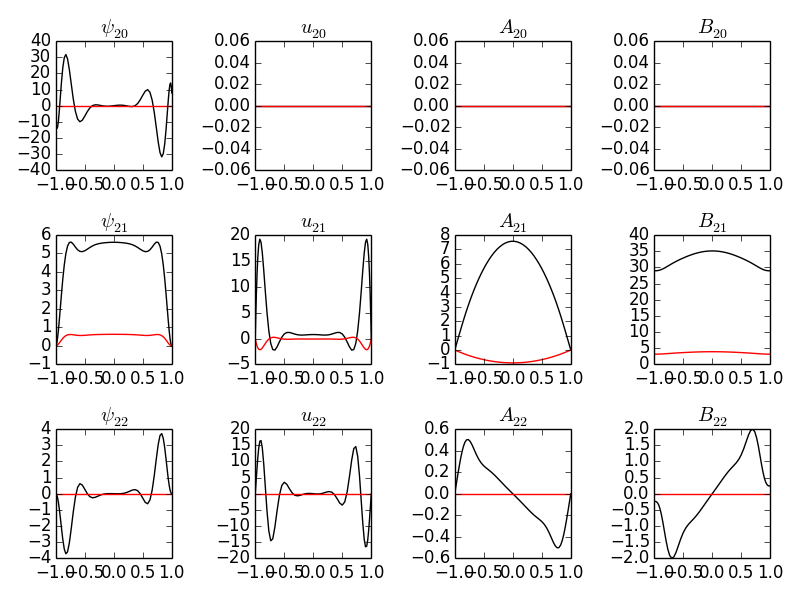
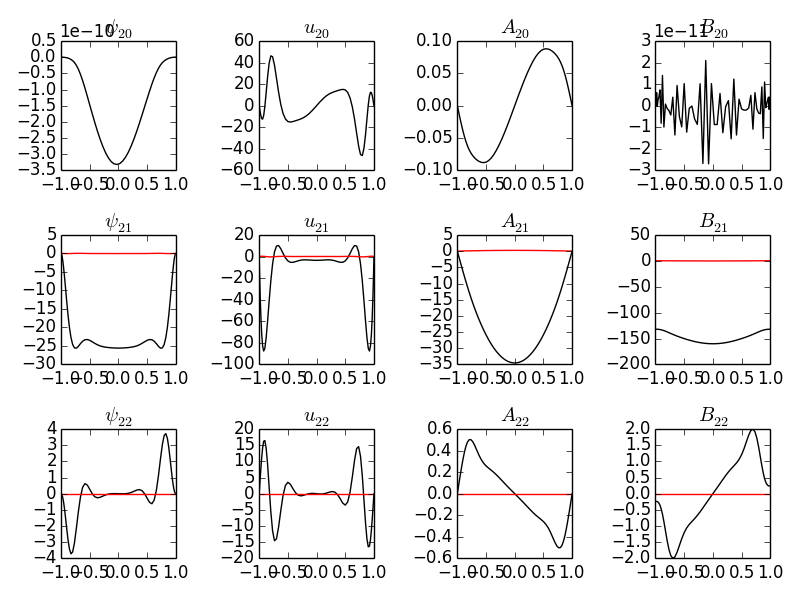
all OrderE2 now correct

diff --git a/python/allorders.py b/python/allorders.py
@@ -184,6 +184,13 @@ class OrderE():
         q = self.q
 
         # linear MRI equations
+        
+        # bvp way
+        #lv1.add_equation("-iR*dx(psixxx) + 2*iR*Q**2*psixx - iR*Q**4*psi - 2*1j*Q*u - (2/beta)*1j*Q*dx(Ax) + (2/beta)*Q**3*1j*A = 0")
+        #lv1.add_equation("-iR*dx(ux) + iR*Q**2*u + (2-q)*1j*Q*psi - (2/beta)*1j*Q*B = 0") 
+        #lv1.add_equation("-iRm*dx(Ax) + iRm*Q**2*A - 1j*Q*psi = 0") 
+        #lv1.add_equation("-iRm*dx(Bx) + iRm*Q**2*B - 1j*Q*u + q*1j*Q*A = 0")
+        
         lv1.add_equation("1j*dt(psixx) - 1j*Q**2*dt(psi) - iR*dx(psixxx) + 2*iR*Q**2*psixx - iR*Q**4*psi - 2*1j*Q*u - (2/beta)*1j*Q*dx(Ax) + (2/beta)*Q**3*1j*A = 0")
         lv1.add_equation("1j*dt(u) - iR*dx(ux) + iR*Q**2*u + (2-q)*1j*Q*psi - (2/beta)*1j*Q*B = 0") 
         lv1.add_equation("1j*dt(A) - iRm*dx(Ax) + iRm*Q**2*A - 1j*Q*psi = 0") 
@@ -218,6 +225,8 @@ class OrderE():
         lv1.expand(domain, order = gridnum)
         LEV = LinearEigenvalue(lv1, domain)
         LEV.solve(LEV.pencils[0])
+        #LEV = LinearBVP(lv1, domain)
+        #LEV.solvedense()
         
         self.LEV = LEV
 
@@ -370,6 +379,7 @@ class N2():
         #self.psi_1_star['g'] = -1*self.psi_1['g'].imag
         
         #testing ...
+        """
         self.psi_1_star_x = domain.new_field()
         self.psi_1_star_x.name = 'psi_1_star_x'
         self.psi_1_star_x['g'] = self.psi_1_x['g'].conj()
@@ -381,26 +391,29 @@ class N2():
         self.psi_1_star_xxx = domain.new_field()
         self.psi_1_star_xxx.name = 'psi_1_star_xxx'
         self.psi_1_star_xxx['g'] = self.psi_1_xxx['g'].conj()
+        """
         
-        #self.psi_1_star_x = self.psi_1_star.differentiate(0)
-        #self.psi_1_star_xx = self.psi_1_star_x.differentiate(0)
-        #self.psi_1_star_xxx = self.psi_1_star_xx.differentiate(0)
+        self.psi_1_star_x = self.psi_1_star.differentiate(0)
+        self.psi_1_star_xx = self.psi_1_star_x.differentiate(0)
+        self.psi_1_star_xxx = self.psi_1_star_xx.differentiate(0)
+        
         
         self.u_1_star = domain.new_field()
         self.u_1_star.name = 'u_1_star'
         self.u_1_star['g'] = self.u_1['g'].conj()
         #self.u_1_star['g'] = self.u_1['g'].real
         
-        #self.u_1_star_x = self.u_1_star.differentiate(0)
+        self.u_1_star_x = self.u_1_star.differentiate(0)
+        """
         self.u_1_star_x = domain.new_field()
         self.u_1_star_x.name = 'u_1_star_x'
         self.u_1_star_x['g'] = self.u_1_x['g'].conj()
-        
+        """
         self.A_1_star = domain.new_field()
         self.A_1_star.name = 'A_1_star'
         self.A_1_star['g'] = self.A_1['g'].conj()
         #self.A_1_star['g'] = self.A_1['g'].real
-        
+        """
         self.A_1_star_x = domain.new_field()
         self.A_1_star_x.name = 'A_1_star_x'
         self.A_1_star_x['g'] = self.A_1_x['g'].conj()
@@ -412,45 +425,50 @@ class N2():
         self.A_1_star_xxx = domain.new_field()
         self.A_1_star_xxx.name = 'A_1_star_xxx'
         self.A_1_star_xxx['g'] = self.A_1_xxx['g'].conj()
+        """
         
-        #self.A_1_star_x = self.A_1_star.differentiate(0)
-        #self.A_1_star_xx = self.A_1_star_x.differentiate(0)
-        #self.A_1_star_xxx = self.A_1_star_xx.differentiate(0)
+        self.A_1_star_x = self.A_1_star.differentiate(0)
+        self.A_1_star_xx = self.A_1_star_x.differentiate(0)
+        self.A_1_star_xxx = self.A_1_star_xx.differentiate(0)
         
         self.B_1_star = domain.new_field()
         self.B_1_star.name = 'B_1_star'
         self.B_1_star['g'] = self.B_1['g'].conj()
         #self.B_1_star['g'] = -1*self.B_1['g'].imag
-        #self.B_1_star_x = self.B_1_star.differentiate(0)
-        
+        self.B_1_star_x = self.B_1_star.differentiate(0)
+        """
         self.B_1_star_x = domain.new_field()
         self.B_1_star_x.name = 'B_1_star_x'
         self.B_1_star_x['g'] = self.B_1_x['g'].conj()
-        
+        """
         
         # define nonlinear terms N22 and N20
         N22psi = 1j*Q*self.psi_1*(self.psi_1_xxx - Q**2*self.psi_1_x) - self.psi_1_x*(1j*Q*self.psi_1_xx - 1j*Q**3*self.psi_1) + (2/self.beta)*self.A_1_x*(1j*Q*self.A_1_xx - 1j*Q**3*self.A_1) - (2/self.beta)*1j*Q*self.A_1*(self.A_1_xxx - Q**2*self.A_1_x)
         self.N22_psi = N22psi.evaluate()
         
-        N20psi = 1j*Q*self.psi_1*(self.psi_1_star_xxx - Q**2*self.psi_1_star_x) - self.psi_1_x*(1j*Q*self.psi_1_star_xx - 1j*Q**3*self.psi_1_star) + (2/self.beta)*self.A_1_x*(1j*Q*self.A_1_star_xx - 1j*Q**3*self.A_1_star) - (2/self.beta)*1j*Q*self.A_1*(self.A_1_star_xxx - Q**2*self.A_1_star_x)
+        #N20psi = 1j*Q*self.psi_1*(self.psi_1_star_xxx - Q**2*self.psi_1_star_x) - self.psi_1_x*(1j*Q*self.psi_1_star_xx - 1j*Q**3*self.psi_1_star) + (2/self.beta)*self.A_1_x*(1j*Q*self.A_1_star_xx - 1j*Q**3*self.A_1_star) - (2/self.beta)*1j*Q*self.A_1*(self.A_1_star_xxx - Q**2*self.A_1_star_x)
+        N20psi = 1j*Q*self.psi_1*(self.psi_1_star_xxx - Q**2*self.psi_1_star_x) - self.psi_1_x*(-1j*Q*self.psi_1_star_xx + 1j*Q**3*self.psi_1_star) + (2/self.beta)*self.A_1_x*(-1j*Q*self.A_1_star_xx + 1j*Q**3*self.A_1_star) - (2/self.beta)*1j*Q*self.A_1*(self.A_1_star_xxx - Q**2*self.A_1_star_x)
         self.N20_psi = N20psi.evaluate()
         
         N22u = 1j*Q*self.psi_1*self.u_1_x - self.psi_1_x*1j*Q*self.u_1 - (2/self.beta)*1j*Q*self.A_1*self.B_1_x + (2/self.beta)*self.A_1_x*1j*Q*self.B_1
         self.N22_u = N22u.evaluate()
         
-        N20u = 1j*Q*self.psi_1*self.u_1_star_x - self.psi_1_x*1j*Q*self.u_1_star - (2/self.beta)*1j*Q*self.A_1*self.B_1_star_x + (2/self.beta)*self.A_1_x*1j*Q*self.B_1_star
+        #N20u = 1j*Q*self.psi_1*self.u_1_star_x - self.psi_1_x*1j*Q*self.u_1_star - (2/self.beta)*1j*Q*self.A_1*self.B_1_star_x + (2/self.beta)*self.A_1_x*1j*Q*self.B_1_star
+        N20u = 1j*Q*self.psi_1*self.u_1_star_x + self.psi_1_x*1j*Q*self.u_1_star - (2/self.beta)*1j*Q*self.A_1*self.B_1_star_x - (2/self.beta)*self.A_1_x*1j*Q*self.B_1_star
         self.N20_u = N20u.evaluate()
         
         N22A = -1j*Q*self.A_1*self.psi_1_x + self.A_1_x*1j*Q*self.psi_1
         self.N22_A = N22A.evaluate()
         
+        #N20A = -1j*Q*self.A_1*self.psi_1_star_x - self.A_1_x*1j*Q*self.psi_1_star
         N20A = -1j*Q*self.A_1*self.psi_1_star_x - self.A_1_x*1j*Q*self.psi_1_star
         self.N20_A = N20A.evaluate()
         
         N22B = 1j*Q*self.psi_1*self.B_1_x - self.psi_1_x*1j*Q*self.B_1 - 1j*Q*self.A_1*self.u_1_x + self.A_1_x*1j*Q*self.u_1
         self.N22_B = N22B.evaluate()
         
-        N20B = 1j*Q*self.psi_1*self.B_1_star_x - self.psi_1_x*1j*Q*self.B_1_star - 1j*Q*self.A_1*self.u_1_star_x + self.A_1_x*1j*Q*self.u_1_star
+        #N20B = 1j*Q*self.psi_1*self.B_1_star_x - self.psi_1_x*1j*Q*self.B_1_star - 1j*Q*self.A_1*self.u_1_star_x + self.A_1_x*1j*Q*self.u_1_star
+        N20B = 1j*Q*self.psi_1*self.B_1_star_x + self.psi_1_x*1j*Q*self.B_1_star - 1j*Q*self.A_1*self.u_1_star_x - self.A_1_x*1j*Q*self.u_1_star
         self.N20_B = N20B.evaluate()
         
         
@@ -577,56 +595,131 @@ class OrderE2():
         q = self.q
         
         # righthand side for the 20 terms (e^0)
-        rhs20_psi = self.n20_psi['g']
-        rhs20_u = self.n20_u['g']
-        rhs20_A = self.n20_A['g'] 
-        rhs20_B = self.n20_B['g']
+        rhs20_psi = self.n20_psi['g'] #+ self.n20_psi['g'].conj()
+        rhs20_u = self.n20_u['g'] #+ self.n20_u['g'].conj()
+        rhs20_A = self.n20_A['g'] #+ self.n20_A['g'].conj()
+        rhs20_B = self.n20_B['g'] #+ self.n20_B['g'].conj()
         
                   
-        lv20 = ParsedProblem(['x'],
-                              field_names=['psi20', 'psi20x', 'psi20xx', 'psi20xxx', 'u20', 'u20x', 'A20', 'A20x', 'B20', 'B20x'],
-                              param_names=['iR', 'iRm', 'rhs20_psi', 'rhs20_u', 'rhs20_A', 'rhs20_B'])
+        #lv20 = ParsedProblem(['x'],
+        #                      field_names=['psi20', 'psi20x', 'psi20xx', 'psi20xxx', 'u20', 'u20x', 'A20', 'A20x', 'B20', 'B20x'],
+        #                      param_names=['iR', 'iRm', 'rhs20_psi', 'rhs20_u', 'rhs20_A', 'rhs20_B'])
+        
+        lv20psi = ParsedProblem(['x'],
+                              field_names=['psi20', 'psi20x', 'psi20xx', 'psi20xxx'],
+                              param_names=['iR', 'rhs20_psi'])
+        lv20psi.add_equation("iR*dx(psi20xxx) = rhs20_psi")
+        lv20psi.add_equation("dx(psi20) - psi20x = 0")
+        lv20psi.add_equation("dx(psi20x) - psi20xx = 0")
+        lv20psi.add_equation("dx(psi20xx) - psi20xxx = 0")
+        lv20psi.parameters['iR'] = iR
+        lv20psi.parameters['rhs20_psi'] = rhs20_psi
+        lv20psi.add_left_bc("psi20 = 0")
+        lv20psi.add_right_bc("psi20 = 0")
+        lv20psi.add_left_bc("psi20x = 0")
+        lv20psi.add_right_bc("psi20x = 0")
+        
+        lv20u = ParsedProblem(['x'],
+                              field_names=['u20', 'u20x'],
+                              param_names=['iR', 'rhs20_u'])
+        lv20u.add_equation("iR*dx(u20x) = rhs20_u")
+        lv20u.add_equation("dx(u20) - u20x = 0")
+        lv20u.parameters['iR'] = iR
+        lv20u.parameters['rhs20_u'] = rhs20_u
+        lv20u.add_left_bc("u20 = 0")
+        lv20u.add_right_bc("u20 = 0")
+        
+        """
+        lv20utwiddle = ParsedProblem(['x'],
+                              field_names=['u20twiddle', 'u20twiddlex'],
+                              param_names=['iR', 'beta'])
+        lv20utwiddle.add_equation("iR*dx(u20twiddlex) = (2/beta)")
+        lv20utwiddle.add_equation("dx(u20twiddle) - u20twiddlex = 0")                      
+        lv20utwiddle.parameters['iR'] = iR
+        lv20utwiddle.parameters['beta'] = beta
+        lv20utwiddle.add_left_bc("u20twiddle = 0")
+        lv20utwiddle.add_right_bc("u20twiddle = 0")
+        """
+        
+        lv20A = ParsedProblem(['x'],
+                              field_names=['A20', 'A20x'],
+                              param_names=['iRm', 'rhs20_A'])
+        lv20A.add_equation("iRm*dx(A20x) = rhs20_A")
+        lv20A.add_equation("dx(A20) - A20x = 0")
+        lv20A.parameters['iRm'] = iRm
+        lv20A.parameters['rhs20_A'] = rhs20_A
+        lv20A.add_left_bc("A20 = 0")
+        lv20A.add_right_bc("A20 = 0")
+        
+        lv20B = ParsedProblem(['x'],
+                              field_names=['B20', 'B20x'],
+                              param_names=['iRm', 'rhs20_B'])
+        lv20B.add_equation("iRm*dx(B20x) = rhs20_B")
+        lv20B.add_equation("dx(B20) - B20x = 0")
+        lv20B.parameters['iRm'] = iRm
+        lv20B.parameters['rhs20_B'] = rhs20_B
+        lv20B.add_left_bc("B20x = 0")
+        lv20B.add_right_bc("B20x = 0")
+        
         
         #lv20.add_equation("1j*dt(psi20xx) + iR*dx(psi20xxx) = rhs20_psi")
         #lv20.add_equation("1j*dt(u20) + iR*dx(u20x) = rhs20_u")
         #lv20.add_equation("1j*dt(A20) + iRm*dx(A20x) = rhs20_A")
         #lv20.add_equation("1j*dt(B20) + iRm*dx(B20x) = rhs20_B")
-        lv20.add_equation("iR*dx(psi20xxx) = rhs20_psi")
-        lv20.add_equation("iR*dx(u20x) = rhs20_u")
-        lv20.add_equation("iRm*dx(A20x) = rhs20_A")
-        lv20.add_equation("iRm*dx(B20x) = rhs20_B")
-        lv20.add_equation("dx(psi20) - psi20x = 0")
-        lv20.add_equation("dx(psi20x) - psi20xx = 0")
-        lv20.add_equation("dx(psi20xx) - psi20xxx = 0")
-        lv20.add_equation("dx(u20) - u20x = 0")
-        lv20.add_equation("dx(A20) - A20x = 0")
-        lv20.add_equation("dx(B20) - B20x = 0")
-        lv20.parameters['iR'] = iR
-        lv20.parameters['iRm'] = iRm
-        lv20.parameters['rhs20_psi'] = rhs20_psi
-        lv20.parameters['rhs20_u'] = rhs20_u
-        lv20.parameters['rhs20_A'] = rhs20_A
-        lv20.parameters['rhs20_B'] = rhs20_B
         
-        lv20.add_left_bc("psi20 = 0")
-        lv20.add_right_bc("psi20 = 0")
-        lv20.add_left_bc("u20 = 0")
-        lv20.add_right_bc("u20 = 0")
-        lv20.add_left_bc("A20 = 0")
-        lv20.add_right_bc("A20 = 0")
-        lv20.add_left_bc("psi20x = 0")
-        lv20.add_right_bc("psi20x = 0")
-        lv20.add_left_bc("B20x = 0")
-        lv20.add_right_bc("B20x = 0")
+        #lv20.add_equation("iR*dx(psi20xxx) = rhs20_psi")
+        #lv20.add_equation("iR*dx(u20x) = rhs20_u")
+        #lv20.add_equation("iRm*dx(A20x) = rhs20_A")
+        #lv20.add_equation("iRm*dx(B20x) = rhs20_B")
+        #lv20.add_equation("dx(psi20) - psi20x = 0")
+        #lv20.add_equation("dx(psi20x) - psi20xx = 0")
+        #lv20.add_equation("dx(psi20xx) - psi20xxx = 0")
+        #lv20.add_equation("dx(u20) - u20x = 0")
+        #lv20.add_equation("dx(A20) - A20x = 0")
+        #lv20.add_equation("dx(B20) - B20x = 0")
+        #lv20.parameters['iR'] = iR
+        #lv20.parameters['iRm'] = iRm
+        #lv20.parameters['rhs20_psi'] = rhs20_psi
+        #lv20.parameters['rhs20_u'] = rhs20_u
+        #lv20.parameters['rhs20_A'] = rhs20_A
+        #lv20.parameters['rhs20_B'] = rhs20_B
         
-        lv20.expand(domain, order = gridnum)
+        #lv20.add_left_bc("psi20 = 0")
+        #lv20.add_right_bc("psi20 = 0")
+        #lv20.add_left_bc("u20 = 0")
+        #lv20.add_right_bc("u20 = 0")
+        #lv20.add_left_bc("A20 = 0")
+        #lv20.add_right_bc("A20 = 0")
+        #lv20.add_left_bc("psi20x = 0")
+        #lv20.add_right_bc("psi20x = 0")
+        #lv20.add_left_bc("B20x = 0")
+        #lv20.add_right_bc("B20x = 0")
+        
+        lv20psi.expand(domain, order = gridnum)
+        lv20u.expand(domain, order = gridnum)
+        lv20A.expand(domain, order = gridnum)
+        lv20B.expand(domain, order = gridnum)
+        
         #LEV20 = LinearEigenvalue(lv20, domain)
         #LEV20.solve(LEV20.pencils[0])
-        LEV20 = LinearBVP(lv20, domain)
-        LEV20.solve()
         
-        self.lv20 = lv20
-        self.LEV20 = LEV20
+        LEV20psi = LinearBVP(lv20psi, domain)
+        LEV20psi.solve()
+        
+        LEV20u = LinearBVP(lv20u, domain)
+        LEV20u.solve()
+        
+        #LEV20utwiddle = LinearBVP(lv20utwiddle, domain)
+        #LEV20utwiddle.solve()
+        
+        LEV20A = LinearBVP(lv20A, domain)
+        LEV20A.solve()
+        
+        LEV20B = LinearBVP(lv20B, domain)
+        LEV20B.solve()
+        
+        self.lv20psi = lv20psi
+        self.LEV20psi = LEV20psi
         #evals = LEV20.eigenvalues
         #indx = np.arange(len(evals))
         #e0 = indx[np.abs(evals) == np.nanmin(np.abs(evals))]
@@ -636,12 +729,12 @@ class OrderE2():
         self.x = domain.grid(0)
         #LEV20.set_state(e0[0])
         
-        self.psi20 = LEV20.state['psi20']['g']
-        self.u20 = LEV20.state['u20']['g']
-        self.A20 = LEV20.state['A20']['g']
-        self.B20 = LEV20.state['B20']['g']
+        self.psi20 = LEV20psi.state['psi20']['g']
+        self.u20 = LEV20u.state['u20']['g'] #+ beta*R*(self.x**2 - 1) #+ LEV20utwiddle.state['u20twiddle']['g']
+        self.A20 = LEV20A.state['A20']['g']
+        self.B20 = LEV20B.state['B20']['g']
             
-    def solve21(self, gridnum = 64, save = True):
+    def solve21(self, gridnum = 64, save = True, norm = True):
     
         # inverse magnetic reynolds number
         iRm = 1./self.Rm
@@ -758,6 +851,19 @@ class OrderE2():
         self.u21 = LEV21.state['u21']['g']
         self.A21 = LEV21.state['A21']['g']
         self.B21 = LEV21.state['B21']['g']
+        
+        if norm == True:
+            n = np.abs(self.LEV21.state['psi21']['g'])[13]
+            a = self.LEV21.state['psi21']['g'].real[13]/n
+            b = self.LEV21.state['psi21']['g'].imag[13]/n
+            scale = 1j*a/(b*(a**2/b+b)) + 1./(a**2/b +b)
+            tt = 1j*132/29.097408658719342
+            scale *= tt
+            
+            self.psi21 = LEV21.state['psi21']['g']*scale
+            self.u21 = LEV21.state['u21']['g']*scale
+            self.A21 = LEV21.state['A21']['g']*scale
+            self.B21 = LEV21.state['B21']['g']*scale
 
     def solve22(self, gridnum = 64, save = True):
 
@@ -773,10 +879,10 @@ class OrderE2():
         q = self.q
         
         # righthand side for the 22 terms (e^2iQz)
-        rhs22_psi = self.n22_psi['g']
-        rhs22_u = self.n22_u['g']
-        rhs22_A = self.n22_A['g']
-        rhs22_B = self.n22_B['g']
+        rhs22_psi = self.n22_psi['g'] #+ self.n22_psi['g'].conj()
+        rhs22_u = self.n22_u['g'] #+ self.n22_u['g'].conj()
+        rhs22_A = self.n22_A['g'] #+ self.n22_A['g'].conj()
+        rhs22_B = self.n22_B['g'] #+ self.n22_B['g'].conj()
         
         self.rhs22_psi = rhs22_psi
         self.rhs22_u = rhs22_u
@@ -859,23 +965,27 @@ class OrderE2():
         
         # plot 20
         ax1 = fig.add_subplot(3, 4, 1)
-        ax1.plot(self.x, self.psi20.imag, color="black")
-        ax1.plot(self.x, self.psi20.real, color="red")
+        #ax1.plot(self.x, self.psi20.imag, color="black")
+        #ax1.plot(self.x, self.psi20.real, color="red")
+        ax1.plot(self.x, self.psi20, color="black")
         ax1.set_title(r"$\psi_{20}$")
 
         ax2 = fig.add_subplot(3, 4, 2)
-        ax2.plot(self.x, self.u20.real, color="black")
-        ax2.plot(self.x, self.u20.imag, color="red")
+        #ax2.plot(self.x, self.u20.real, color="black")
+        #ax2.plot(self.x, self.u20.imag, color="red")
+        ax2.plot(self.x, self.u20, color="black")
         ax2.set_title(r"$u_{20}$")
 
         ax3 = fig.add_subplot(3, 4, 3)
-        ax3.plot(self.x, self.A20.real, color="black")
-        ax3.plot(self.x, self.A20.imag, color="red")
+        #ax3.plot(self.x, self.A20.real, color="black")
+        #ax3.plot(self.x, self.A20.imag, color="red")
+        ax3.plot(self.x, self.A20, color="black")
         ax3.set_title(r"$A_{20}$")
 
         ax4 = fig.add_subplot(3, 4, 4)
-        ax4.plot(self.x, self.B20.imag, color="black")
-        ax4.plot(self.x, self.B20.real, color="red")
+        #ax4.plot(self.x, self.B20.imag, color="black")
+        #ax4.plot(self.x, self.B20.real, color="red")
+        ax4.plot(self.x, self.B20, color="black")
         ax4.set_title(r"$B_{20}$")
         
         # plot 21
